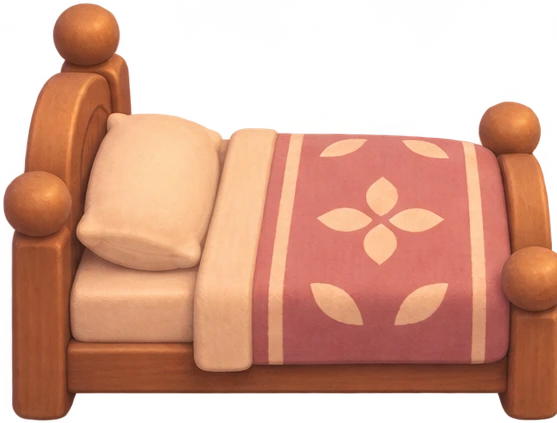
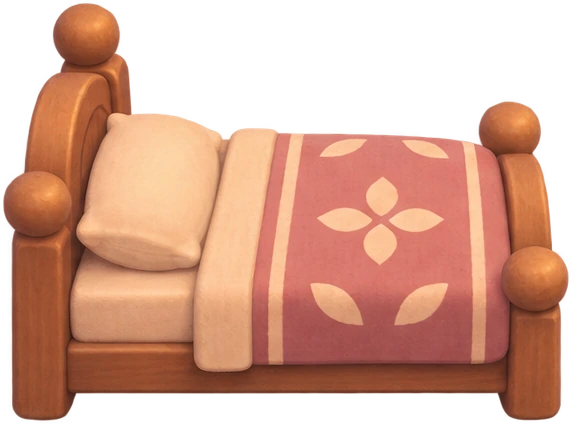
Home: clean rug/stove/bed cutouts, front-layer overlays for bed & armchair, sprite-anchored seats, proper lying pose
Claude-Session: https://claude.ai/code/session_01V1uW48asEmbAkskT1r7mEz

diff --git a/index.html b/index.html
@@ -305,12 +305,12 @@
 <div id="note" class="ov"><div class="nb"><button class="x" aria-label="닫기">×</button><div class="tabs"><button data-t="day">일기</button><button data-t="fr">친구</button></div><div class="pg l" id="noteL"></div><div class="pg r" id="noteR"></div></div></div><div id="toast"></div><button id="admBtn" aria-label="관리자">⚙</button><div id="admTag">테스트 중 · 기록이 저장되지 않아요</div><div id="adm" class="ov"><div class="card"><button class="x" aria-label="닫기">×</button><div id="admBody"></div></div></div><div id="pst"><div class="card"><button class="x" aria-label="닫기">×</button><div id="pstBody"></div></div></div><div id="shop"><div class="card"><button class="x" aria-label="닫기">×</button><div id="shopBody"></div></div></div><button id="sndBtn" aria-label="소리"><img src="ui/i_snd_on.webp" alt=""></button><div id="dress"></div><div id="who">1명 접속 중</div>
 <button id="standBtn">일어나기</button><button id="outBtn">나가기</button><button id="decoBtn">꾸미기</button><div id="homeEdit"></div><div id="homeBar"></div><form id="chat" autocomplete="off"><input id="msg" maxlength="60" placeholder="이웃에게 한마디"><button type="submit">보내기</button></form>
 <div id="fade"></div>
-<div id="title"><div style="position:absolute;right:10px;bottom:8px;font-size:11px;opacity:.45">v1122g</div><h1>이브 빌리지</h1><p>늘 해 질 녘, 크리스마스이브에 멈춘 숲바다 마을</p><input id="nm" maxlength="8" placeholder="이름 (최대 8자)"><input id="pw" type="password" maxlength="30" placeholder="비밀번호 (6자 이상)"><p style="font-size:12px;opacity:.75;margin:0">처음이면 자동으로 가입돼요. 다른 기기에서도 같은 이름·비번으로 들어와요.</p><div id="err"></div><button id="go">입장하기</button></div>
+<div id="title"><div style="position:absolute;right:10px;bottom:8px;font-size:11px;opacity:.45">v1122h</div><h1>이브 빌리지</h1><p>늘 해 질 녘, 크리스마스이브에 멈춘 숲바다 마을</p><input id="nm" maxlength="8" placeholder="이름 (최대 8자)"><input id="pw" type="password" maxlength="30" placeholder="비밀번호 (6자 이상)"><p style="font-size:12px;opacity:.75;margin:0">처음이면 자동으로 가입돼요. 다른 기기에서도 같은 이름·비번으로 들어와요.</p><div id="err"></div><button id="go">입장하기</button></div>
 <div id="kicked" style="position:fixed;inset:0;z-index:30;display:none;align-items:center;justify-content:center;background:rgba(27,22,40,.85);color:#fff4e2;font-size:16px;text-align:center;padding:24px">다른 기기에서 이 이름으로 접속했어요.<br>이 창은 연결이 끊겼어요.</div>
 <div id="load">마을 불러오는 중…</div>
-<script src="maps.js?v=1122g"></script>
+<script src="maps.js?v=1122h"></script>
 <script src="chars.js?v=1120b"></script>
-<script>Object.assign(window.MAPS,{curio:"curio/curio.jpg",mask_curio:"curio/mask.png",fx_curio:"curio/fx.png",curio_float:"curio/float.png",post:"post/post.jpg?v=2",mask_post:"post/mask.png",fx_post:"post/fx.png",post_float:"post/float.png?v=2",camp:"grnd/camp.jpg",mask_camp:"post/mask.png",fx_camp:"post/fx.png",b_dome_on:"camp/dome_on.webp",b_dome_off:"camp/dome_off.webp",b_tipi_on:"camp/tipi_on.webp",b_tipi_off:"camp/tipi_off.webp",b_flag:"camp/flag.webp",b_mailbox:"camp/mailbox.webp",home:"home/room.jpg",mask_home:"post/mask.png",fx_home:"post/fx.png",b_h_bed:"home/bed.webp",b_h_rug:"home/rug.webp",b_h_stove:"home/stove.webp",b_h_table:"home/table.webp",b_h_chair:"home/chair.webp",b_h_armchair:"home/armchair.webp",b_h_rack:"home/rack.webp",b_h_shelf:"home/shelf.webp",b_h_plant:"home/plant.webp",b_h_lamp:"home/lamp.webp",b_h_side:"home/side.webp",b_h_chair_s:"home/chair_s.webp",b_h_armchair_s:"home/armchair_s.webp",b_h_shelf_s:"home/shelf_s.webp",b_h_rack_s:"home/rack_s.webp",b_h_stove_s:"home/stove_s.webp",b_h_bed_s:"home/bed_s.webp",b_h_win_sea:"home/win_sea.webp",b_h_win_forest:"home/win_forest.webp",b_h_win_sky:"home/win_sky.webp",it_shell_w:"items/shell_w.webp",it_shell_p:"items/shell_p.webp",it_shell_v:"items/shell_v.webp",it_wood:"items/wood.webp",it_glass_g:"items/glass_g.webp",it_conch:"items/conch.webp",it_glass_b:"items/glass_b.webp",it_star:"items/star.webp",it_pearl:"items/pearl.webp",it_bottle:"items/bottle.webp",plaza:"grnd/plaza.jpg",beach:"grnd/beach.jpg",b_news:"bld/news.webp",b_cafe:"bld/cafe.webp",b_library:"bld/library.webp",b_curio2:"bld/curio2.webp",b_post2:"bld/post2.webp",b_pub:"bld/pub.webp",library:"lib/library.jpg",mask_library:"lib/mask_library.png",fx_library:"lib/fx_library.png",candles:"lib/candles.png"});</script>
+<script>Object.assign(window.MAPS,{curio:"curio/curio.jpg",mask_curio:"curio/mask.png",fx_curio:"curio/fx.png",curio_float:"curio/float.png",post:"post/post.jpg?v=2",mask_post:"post/mask.png",fx_post:"post/fx.png",post_float:"post/float.png?v=2",camp:"grnd/camp.jpg",mask_camp:"post/mask.png",fx_camp:"post/fx.png",b_dome_on:"camp/dome_on.webp",b_dome_off:"camp/dome_off.webp",b_tipi_on:"camp/tipi_on.webp",b_tipi_off:"camp/tipi_off.webp",b_flag:"camp/flag.webp",b_mailbox:"camp/mailbox.webp",home:"home/room.jpg",mask_home:"post/mask.png",fx_home:"post/fx.png",b_h_bed:"home/bed.webp?v=2",b_h_bed_f:"home/bed_f.webp",b_h_bed_s_f:"home/bed_s_f.webp",b_h_armchair_f:"home/armchair_f.webp",b_h_armchair_s_f:"home/armchair_s_f.webp",b_h_rug:"home/rug.webp?v=2",b_h_stove:"home/stove.webp?v=2",b_h_table:"home/table.webp",b_h_chair:"home/chair.webp",b_h_armchair:"home/armchair.webp",b_h_rack:"home/rack.webp",b_h_shelf:"home/shelf.webp",b_h_plant:"home/plant.webp",b_h_lamp:"home/lamp.webp",b_h_side:"home/side.webp",b_h_chair_s:"home/chair_s.webp",b_h_armchair_s:"home/armchair_s.webp",b_h_shelf_s:"home/shelf_s.webp",b_h_rack_s:"home/rack_s.webp",b_h_stove_s:"home/stove_s.webp",b_h_bed_s:"home/bed_s.webp",b_h_win_sea:"home/win_sea.webp",b_h_win_forest:"home/win_forest.webp",b_h_win_sky:"home/win_sky.webp",it_shell_w:"items/shell_w.webp",it_shell_p:"items/shell_p.webp",it_shell_v:"items/shell_v.webp",it_wood:"items/wood.webp",it_glass_g:"items/glass_g.webp",it_conch:"items/conch.webp",it_glass_b:"items/glass_b.webp",it_star:"items/star.webp",it_pearl:"items/pearl.webp",it_bottle:"items/bottle.webp",plaza:"grnd/plaza.jpg",beach:"grnd/beach.jpg",b_news:"bld/news.webp",b_cafe:"bld/cafe.webp",b_library:"bld/library.webp",b_curio2:"bld/curio2.webp",b_post2:"bld/post2.webp",b_pub:"bld/pub.webp",library:"lib/library.jpg",mask_library:"lib/mask_library.png",fx_library:"lib/fx_library.png",candles:"lib/candles.png"});</script>
 <script type="module">
 import * as THREE from 'three';
 import { GLTFLoader } from 'three/addons/loaders/GLTFLoader.js';
@@ -473,23 +473,23 @@ const Owl={x:50,y:40,bub:null,t:0,i:{},n0:0,
 function say(c,text){if(c.bub)c.bub.remove();const b=document.createElement('div');b.className='bub';b.textContent=text;tagsEl.appendChild(b);c.bub=b;c.bubT=5.5;}
 function seatZ(s){if(s.z!=null)return s.z;if(s.behind)return s.y;let z=s.y;(P.occ||[]).forEach(o=>{if(inPoly(s.x,s.y,o.p))z=Math.max(z,o.b);});return z+0.6;}
 const charH=(y)=>(P.sizeW?SW*P.sizeW:SH*P.size)*(0.78+0.45*y/100);
-function place(c,t){const s=charH(c.y),pbo=(c.pW&&c.pW.bed)||0,px=c.x/100*SW-pbo*s*0.5*(c._bs||1),py=c.y/100*SH+pbo*s*1.0;const zy=c.sitting&&c.seat?seatZ(c.seat)/100*SH:py;c.g.position.set(px,-py,zy*ZK);c.g.scale.setScalar(s);
+function place(c,t){const s=charH(c.y),px=c.x/100*SW,py=c.y/100*SH;const zy=c.sitting&&c.seat?seatZ(c.seat)/100*SH:py;c.g.position.set(px,-py,zy*ZK);c.g.scale.setScalar(s);
   const moving=!!(c.path&&c.path.length);
   const dt=c._dt||0.016;c.wW+=((moving?1:0)-c.wW)*Math.min(1,dt*10);c.sW+=((c.sitting?1:0)-c.sW)*Math.min(1,dt*8);
   if(moving)c.walk+=dt*(7+40*c.speed);
   c.u.uPhase.value=c.walk;c.u.uWalk.value=c.wW;c.u.uSit.value=c.sW;
   const ph=c.walk;c.body.position.y=0.5+Math.abs(Math.sin(ph))*0.03*c.wW-0.2*c.sW+(1-c.wW)*(1-c.sW)*Math.sin(t*2.2+c.x)*0.006;
-  const pose=c.sitting&&c.seat?c.seat.pose:null;c.pW=c.pW||{};for(const k of ['chair','nook','lie','perch','bed','bedv']){c.pW[k]=(c.pW[k]||0)+(((pose===k)?1:0)-(c.pW[k]||0))*Math.min(1,dt*6);}
-  const pc=c.pW.chair,pn=c.pW.nook,pl=c.pW.lie,pp=c.pW.perch,pb=c.pW.bed,pv=c.pW.bedv,bs=(c.seat&&c.seat.side)||c._bs||1;if(c.seat&&c.seat.side)c._bs=c.seat.side;
+  const pose=c.sitting&&c.seat?c.seat.pose:null;c.pW=c.pW||{};for(const k of ['chair','nook','lie','perch','lieb']){c.pW[k]=(c.pW[k]||0)+(((pose===k)?1:0)-(c.pW[k]||0))*Math.min(1,dt*6);}
+  const pc=c.pW.chair,pn=c.pW.nook,pl=c.pW.lie,pp=c.pW.perch,pk=c.pW.lieb;
   c.body.rotation.x=Math.sin(ph)*0.07*c.wW+pl*(1.42+Math.sin(t*0.9)*0.05);
-  c.body.rotation.z=-0.06*c.wW+pc*0.2+pn*0.34+pp*0.05+pv*1.38;c.g.rotation.z=pb*1.42*bs;
-  c.body.position.y+=-0.05*pc-0.08*pn+pl*(-0.12+Math.sin(t*0.9)*0.01)+pb*Math.sin(t*0.9)*0.008;
-  c.u.uSit.value=c.sW*(1-0.75*pl-0.9*pb-0.9*pv)+pn*0.15;
+  c.body.rotation.z=-0.06*c.wW+pc*0.2+pn*0.34+pp*0.05+pk*1.57;
+  c.body.position.y+=-0.05*pc-0.08*pn+pl*(-0.12+Math.sin(t*0.9)*0.01)+pk*Math.sin(t*0.9)*0.006;
+  c.u.uSit.value=c.sW*(1-0.75*pl-pk)+pn*0.15;
   let d=c.face-c.turn.rotation.y;d=Math.atan2(Math.sin(d),Math.cos(d));c.turn.rotation.y+=d*0.2;
-  const top=py-s*(c.sitting?0.78:0.98);c.tag.style.left=px+'px';c.tag.style.top=top+'px';
+  const top=py-s*(c.sitting?(pk>0.5?0.55:0.78):0.98);c.tag.style.left=px+'px';c.tag.style.top=top+'px';
   if(c.bub){c.bub.style.left=px+'px';c.bub.style.top=(top-18)+'px';}}
 // 앉기/일어나기: 자리 앞(접근점)에서 돌아서서 자리로 들어가며 앉고, 일어날 땐 자리 앞으로 나옴
-const seatApproach=(s)=>{if(s.ax!=null)return [s.ax,s.ay];const c=nearestOk(...cellOf(s.x,s.y));return c?cellPt(...c):[s.x,s.y];};
+const seatApproach=(s)=>{if(s.ax!=null)return [s.ax,s.ay];const c=nearestOk(...cellOf(s.px!=null?s.px:s.x,s.py!=null?s.py:s.y));return c?cellPt(...c):[s.x,s.y];};
 const ease=(t)=>t<0.5?2*t*t:1-Math.pow(-2*t+2,2)/2;
 function startSit(c){const s=c.seat;if(c===me&&DLINE.sit[placeKey])Me.log(DLINE.sit[placeKey],'s_'+placeKey);c.path=null;c.target=null;faceTo(c,...s.look);c.sitting=true;c.mv={fx:c.x,fy:c.y,tx:s.x,ty:s.y,t:0,dur:0.45,face:s.look};}
 function startStand(c,then){const s=c.seat;const[ax,ay]=s?seatApproach(s):[c.x,c.y];c.sitting=false;c.mv={fx:c.x,fy:c.y,tx:ax,ty:ay,t:0,dur:0.4,then,leave:true};if(s)faceTo(c,ax+(ax-s.x),ay+(ay-s.y));}
@@ -1043,12 +1043,12 @@ const hxl=y=>y>=HF.ys?0.2:HF.xl0*(1-(y-HF.yb)/(HF.ys-HF.yb))+0.2,hxr=y=>100-hxl(
 const HDK=0.736; // 바닥 깊이 1(가로%)이 화면 세로로 몇 %인지
 // sw: 앞모습 폭(캐릭터 키 단위) · fw/fd: 바닥 자리 폭/깊이 · s: 옆모습 [폭,fw,fd] · ar: 그림 세로/가로
 const FURN={
-  bed:{n:'침대',sw:1.75,fw:1.65,fd:0.62,s:[0.98,0.9,1.05],seat:'lie',ar:423/557,ars:599/441,rot:[['f'],['s'],['f',1]]},
-  rug:{n:'러그',sw:2.0,flat:1,ar:355/584,rot:[['f']]},
-  stove:{n:'난로',sw:0.85,fw:0.75,fd:0.55,s:[0.49,0.48,0.62],ar:458/469,ars:600/355,glow:[0.3,'255,150,70',1],rot:[['f'],['s'],['s',1]]},
+  bed:{n:'침대',sw:1.8,fw:1.65,fd:0.62,s:[0.98,0.9,1.05],seat:'lie',ar:424/572,ars:599/441,fr:{f:1,s:1},hip:{f:[0.45,0.6],s:[0.5,0.53]},rot:[['f'],['s'],['f',1]]},
+  rug:{n:'러그',sw:1.91,flat:1,ar:351/558,rot:[['f']]},
+  stove:{n:'난로',sw:0.52,fw:0.48,fd:0.42,s:[0.49,0.48,0.62],ar:460/289,ars:600/355,glow:[0.3,'255,150,70',1],rot:[['f'],['s'],['s',1]]},
   table:{n:'테이블',sw:0.95,fw:0.85,fd:0.6,ar:371/434,rot:[['f']]},
-  chair:{n:'의자',sw:0.62,fw:0.55,fd:0.45,s:[0.67,0.62,0.45],ar:448/281,ars:483/326,seat:'chair',rot:[['f'],['s'],['s',1]]},
-  armchair:{n:'안락의자',sw:0.95,fw:0.85,fd:0.6,s:[0.75,0.7,0.65],ar:454/500,ars:495/429,seat:'chair',rot:[['f'],['s'],['s',1]]},
+  chair:{n:'의자',sw:0.62,fw:0.55,fd:0.45,s:[0.67,0.62,0.45],ar:448/281,ars:483/326,seat:'chair',hip:{f:[0.5,0.58],s:[0.44,0.53]},rot:[['f'],['s'],['s',1]]},
+  armchair:{n:'안락의자',sw:0.95,fw:0.85,fd:0.6,s:[0.75,0.7,0.65],ar:454/500,ars:495/429,seat:'chair',fr:{f:1,s:1},hip:{f:[0.5,0.55],s:[0.42,0.47]},rot:[['f'],['s'],['s',1]]},
   rack:{n:'편지꽂이',sw:0.8,fw:0.75,fd:0.4,s:[0.7,0.65,0.6],ar:438/381,ars:566/433,act:'mail',rot:[['f'],['s'],['s',1]]},
   shelf:{n:'수집 선반',sw:0.9,fw:0.85,fd:0.4,s:[0.62,0.55,0.75],ar:538/427,ars:580/316,rot:[['f'],['s'],['s',1]]},
   plant:{n:'화분',sw:0.62,fw:0.5,fd:0.4,ar:415/340,rot:[['f'],['f',1]]},
@@ -1090,9 +1090,13 @@ const Home={edit:false,sel:null,drag:null,
       if(F.flat){b.z=-50;b.noShadow=1;}
       if(F.act==='mail'){b.door=[o.x,+Math.min(98,o.y+3.5).toFixed(2)];b.mail=Camp.mine();}
       bld.push(b);const hH=d.sw*(d.ar||F.ar)*(2/3);
-      if(F.seat==='chair'){const dir=!v.side?0:(v.flip?1:-1);seats.push(b.seatRef={x:+(o.x+dir*d.sw*0.08).toFixed(2),y:+(o.y-hH*0.12).toFixed(2),look:dir?[o.x+dir*30,o.y]:[o.x,o.y+20],pose:'chair',z:o.y+0.6});}
-      if(F.seat==='lie'){if(v.side)seats.push(b.seatRef={x:+o.x.toFixed(2),y:+(o.y-hH*0.3).toFixed(2),look:[o.x,o.y+30],pose:'bedv',z:o.y+0.6});
-        else seats.push(b.seatRef={x:+(o.x+(v.flip?-1:1)*d.sw*0.3).toFixed(2),y:+(o.y-hH*0.42).toFixed(2),look:[o.x,o.y+20],pose:'bed',side:v.flip?-1:1,z:o.y+0.6});}
+      if(F.seat){const A=F.hip[v.side?'s':'f'],fx=v.flip?-1:1,sx=+(o.x+(A[0]-0.5)*d.sw*fx).toFixed(2),sy=+(o.y-(1-A[1])*hH).toFixed(2);
+        // 앉는 방향: 정면 가구는 화면 쪽, 옆모습은 그림이 바라보는 쪽(왼쪽, 뒤집으면 오른쪽)
+        const dir=!v.side?0:-fx;let sr;
+        if(F.seat==='chair')sr={x:sx,y:sy,look:dir?[sx+dir*30,sy]:[sx,sy+30],pose:'chair',z:o.y+0.6};
+        else sr=v.side?{x:sx,y:sy,look:[sx,sy+30],pose:'lieb',z:o.y+0.6}:{x:sx,y:sy,look:[sx+fx*30,sy],pose:'lieb',z:o.y+0.6}; // 발 쪽을 바라보고 뒤로 누움 = 머리가 베개로
+        sr.px=+(o.x+dir*d.fw*0.3).toFixed(2);sr.py=+Math.min(98,o.y+2.2).toFixed(2);b.seatRef=sr;seats.push(sr);
+        if(F.fr&&F.fr[v.side?'s':'f'])bld.push({img:b.img+'_f',cx:o.x,by:o.y,w:d.sw,fp:[[o.x,o.y]],flip:v.flip,z:o.y+0.9,noShadow:1,ho:o,seatRef:sr});}
       if(F.glow){const [gh,col,fire]=F.glow;glows.push([o.x,+(o.y-hH*gh).toFixed(2),fire?4:7,col,fire?1:0]);}}
     const PH=PLACES.home;PH.bld=bld;PH.seats=seats;PH.glows=glows;this.grid();},
   grid(){const gx=100,gy=150,g=new Uint8Array(gx*gy),R=this.room(),poly=[[8,45.8],[92,45.8],[96.5,63],[96.5,98.6],[3.5,98.6],[3.5,63]];
